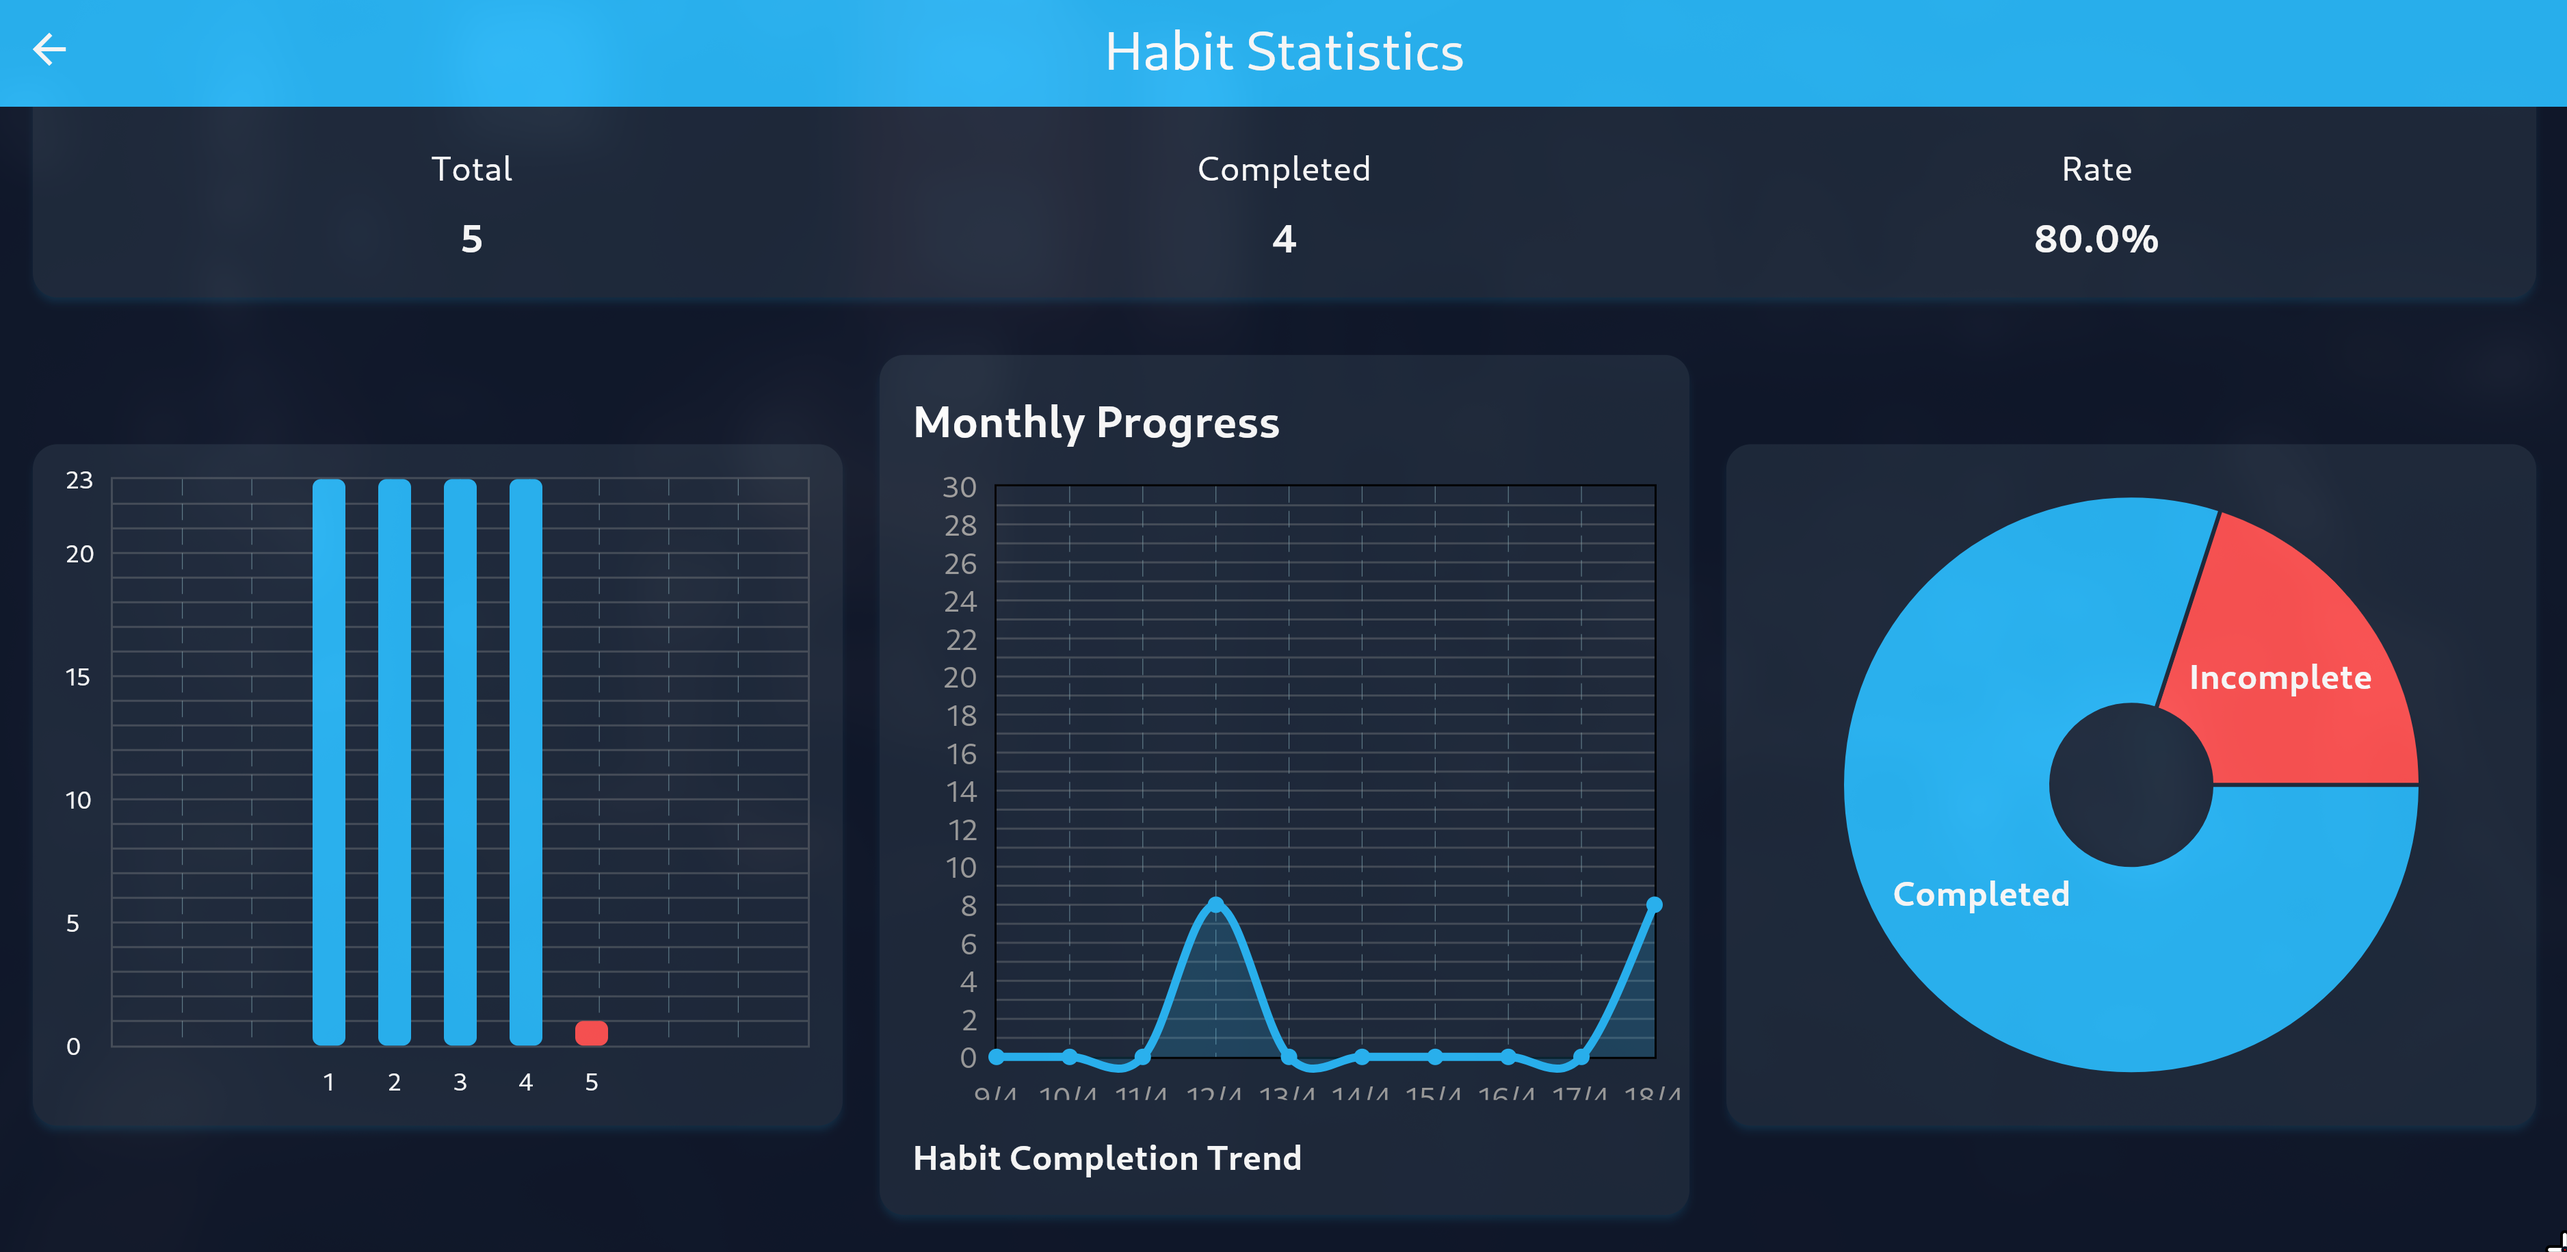
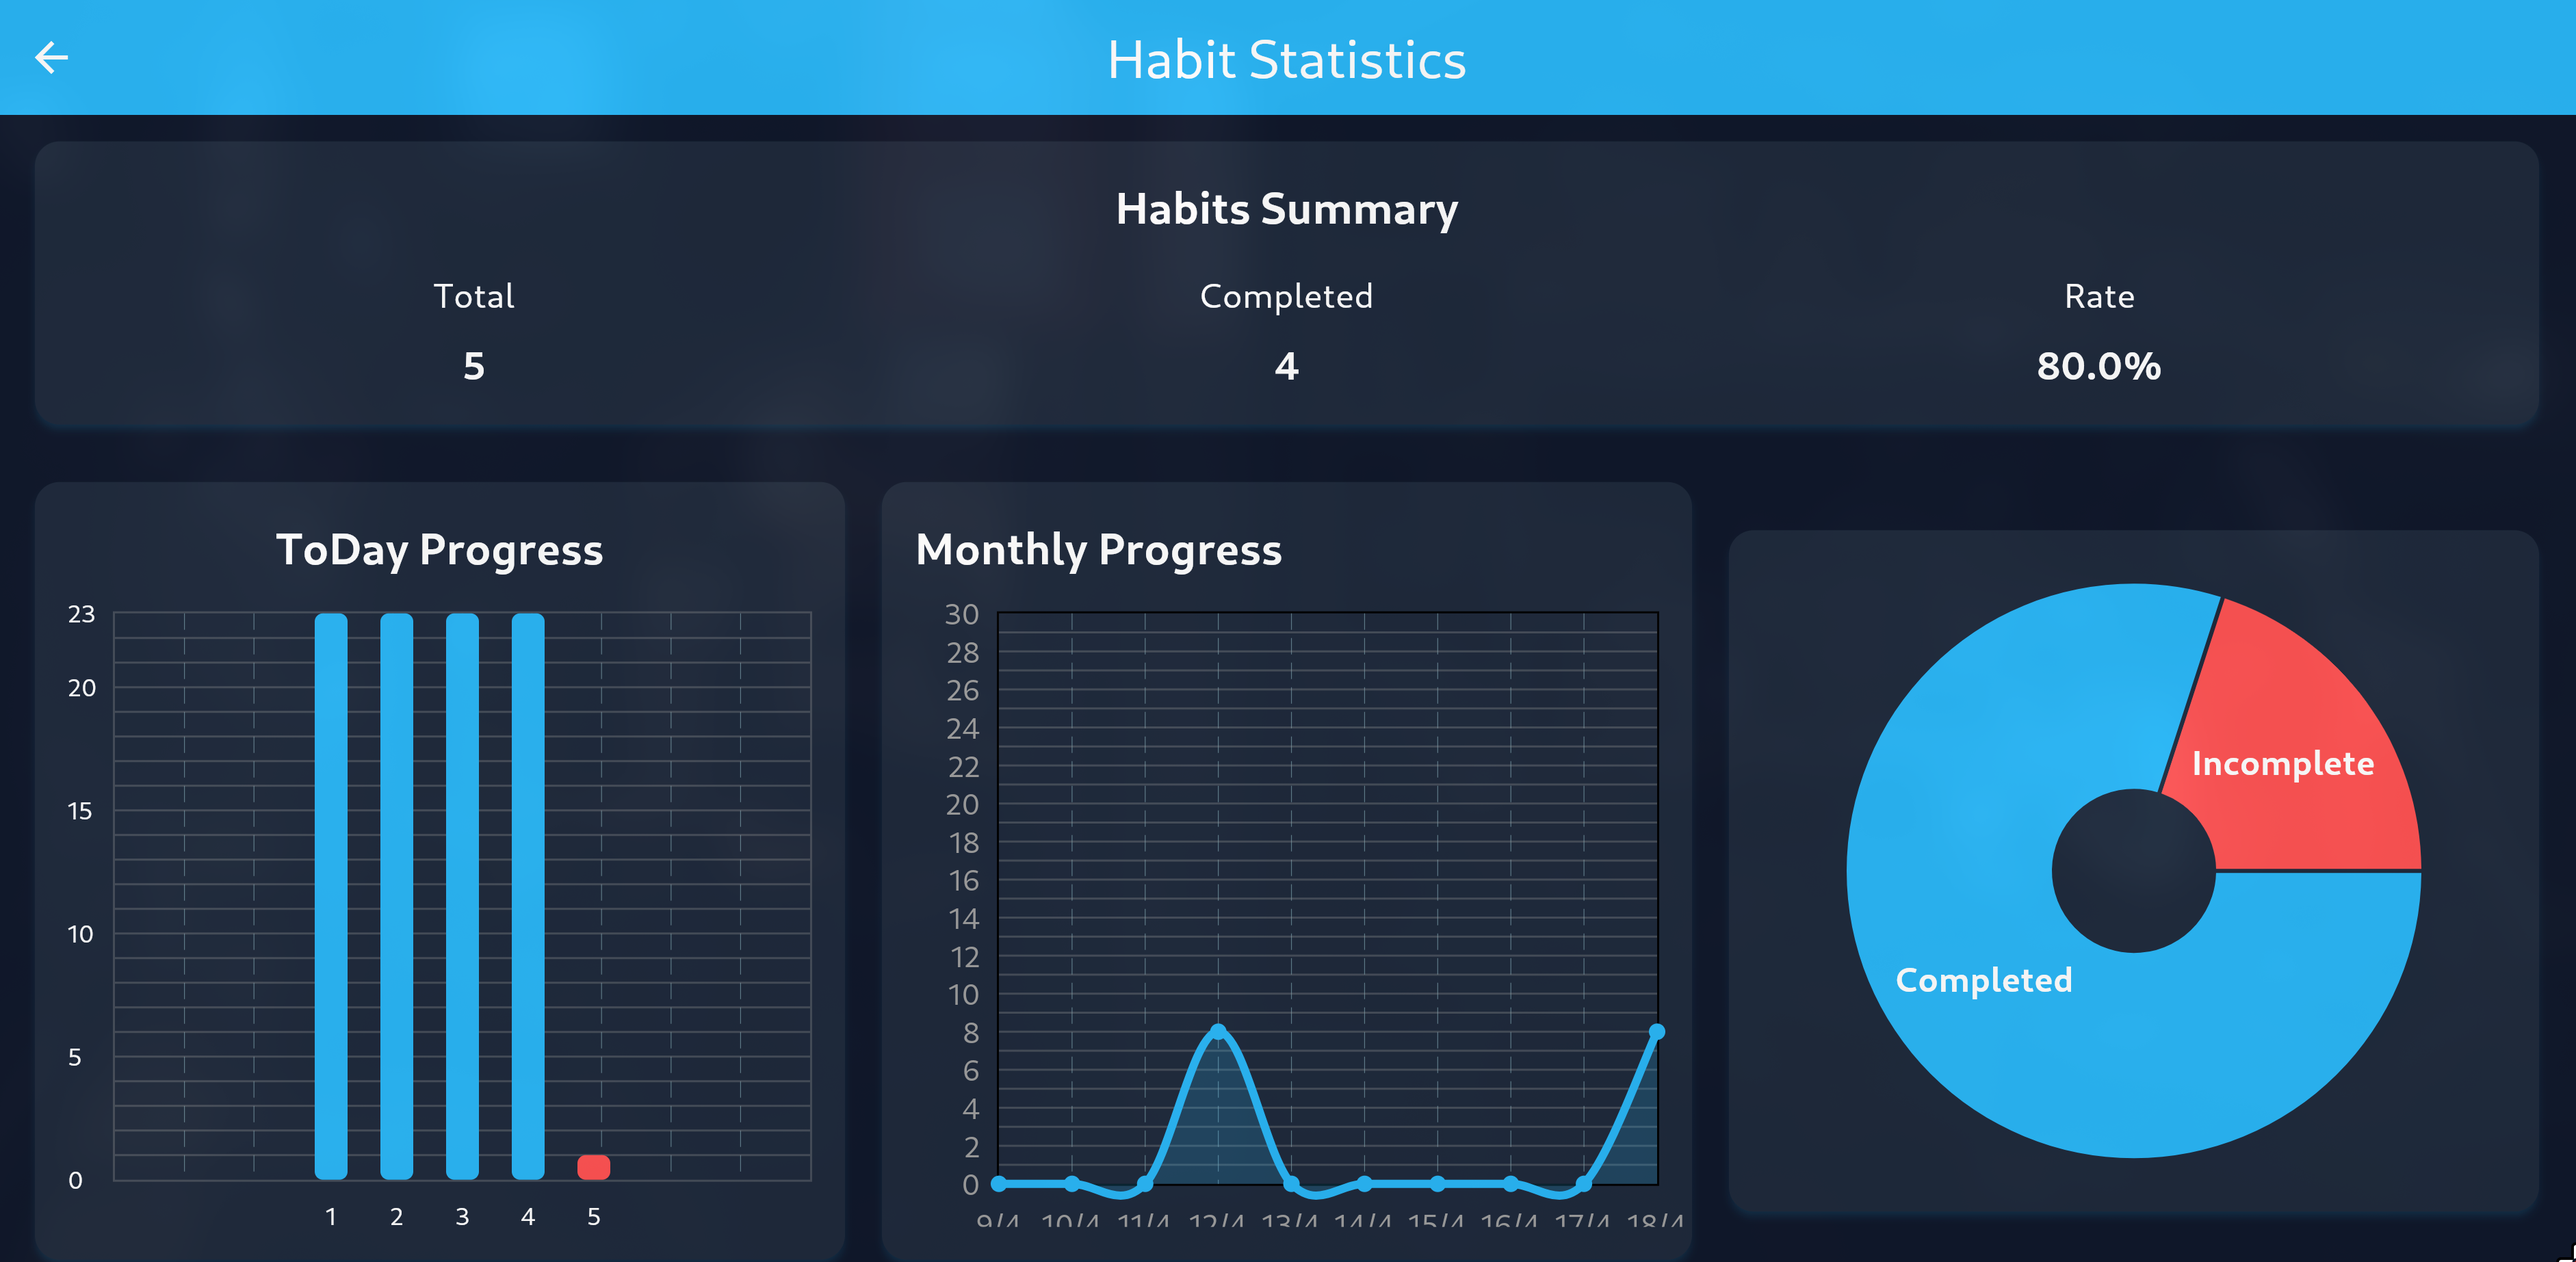
add image

diff --git a/lib/view/HabitStatsPage/widget/BuildBarChart.dart b/lib/view/HabitStatsPage/widget/BuildBarChart.dart
@@ -19,85 +19,96 @@ Widget BuildBarChart(
   return Card(
     child: Padding(
       padding: const EdgeInsets.all(16.0),
-      child: SizedBox(
-        height: 300,
-        child: BarChart(
-          BarChartData(
-            alignment: BarChartAlignment.center,
-            minY: 0,
-            maxY: cont.dayCount > 0 ? cont.dayCount.toDouble() : 5.0,
-            titlesData: FlTitlesData(
-              show: true,
-              leftTitles: AxisTitles(
-                sideTitles: SideTitles(
-                  showTitles: true,
-                  getTitlesWidget: (value, meta) {
-                    return Text(
-                      "${value.toInt()}",
-                      style: const TextStyle(fontSize: 10),
+      child: Column(
+        children: [
+          const Text(
+            'ToDay Progress',
+            style: TextStyle(fontSize: 18, fontWeight: FontWeight.bold),
+          ),
+          const SizedBox(height: 16),
+          SizedBox(
+            height: 300,
+            child: BarChart(
+              BarChartData(
+                alignment: BarChartAlignment.center,
+                minY: 0,
+                maxY: cont.dayCount > 0 ? cont.dayCount.toDouble() : 5.0,
+                titlesData: FlTitlesData(
+                  show: true,
+                  leftTitles: AxisTitles(
+                    sideTitles: SideTitles(
+                      showTitles: true,
+                      getTitlesWidget: (value, meta) {
+                        return Text(
+                          "${value.toInt()}",
+                          style: const TextStyle(fontSize: 10),
+                        );
+                      },
+                    ),
+                  ),
+                  bottomTitles: AxisTitles(
+                    sideTitles: SideTitles(
+                      showTitles: true,
+                      getTitlesWidget: (value, meta) {
+                        if (value.toInt() < chartData.length) {
+                          return Padding(
+                            padding: const EdgeInsets.only(top: 8.0),
+                            child: Text(
+                              '${value.toInt() + 1}',
+                              style: const TextStyle(fontSize: 10),
+                            ),
+                          );
+                        }
+                        return const Text('');
+                      },
+                    ),
+                  ),
+                  rightTitles: AxisTitles(
+                    sideTitles: SideTitles(showTitles: false),
+                  ),
+                  topTitles: AxisTitles(
+                    sideTitles: SideTitles(showTitles: false),
+                  ),
+                ),
+                gridData: FlGridData(
+                  horizontalInterval: 1,
+                  getDrawingHorizontalLine: (value) {
+                    return FlLine(
+                      color: Colors.grey.withOpacity(0.3),
+                      strokeWidth: 1,
                     );
                   },
                 ),
-              ),
-              bottomTitles: AxisTitles(
-                sideTitles: SideTitles(
-                  showTitles: true,
-                  getTitlesWidget: (value, meta) {
-                    if (value.toInt() < chartData.length) {
-                      return Padding(
-                        padding: const EdgeInsets.only(top: 8.0),
-                        child: Text(
-                          '${value.toInt() + 1}',
-                          style: const TextStyle(fontSize: 10),
-                        ),
-                      );
-                    }
-                    return const Text('');
-                  },
+                borderData: FlBorderData(
+                  show: true,
+                  border: Border.all(color: Colors.grey.withOpacity(0.3)),
                 ),
-              ),
-              rightTitles: AxisTitles(
-                sideTitles: SideTitles(showTitles: false),
-              ),
-              topTitles: AxisTitles(sideTitles: SideTitles(showTitles: false)),
-            ),
-            gridData: FlGridData(
-              horizontalInterval: 1,
-              getDrawingHorizontalLine: (value) {
-                return FlLine(
-                  color: Colors.grey.withOpacity(0.3),
-                  strokeWidth: 1,
-                );
-              },
-            ),
-            borderData: FlBorderData(
-              show: true,
-              border: Border.all(color: Colors.grey.withOpacity(0.3)),
-            ),
-            barGroups:
-                chartData.asMap().entries.map((entry) {
-                  final int index = entry.key;
-                  final Map<String, dynamic> habit = entry.value;
-                  final double barValue =
-                      habit['completed'] ? cont.dayCount.toDouble() : 1.0;
+                barGroups:
+                    chartData.asMap().entries.map((entry) {
+                      final int index = entry.key;
+                      final Map<String, dynamic> habit = entry.value;
+                      final double barValue =
+                          habit['completed'] ? cont.dayCount.toDouble() : 1.0;
 
-                  return BarChartGroupData(
-                    x: index,
-                    barRods: [
-                      BarChartRodData(
-                        toY: barValue,
-                        color:
-                            habit['completed']
-                                ? Theme.of(context).primaryColor
-                                : Theme.of(context).colorScheme.error,
-                        width: 16,
-                        borderRadius: BorderRadius.circular(4),
-                      ),
-                    ],
-                  );
-                }).toList(),
+                      return BarChartGroupData(
+                        x: index,
+                        barRods: [
+                          BarChartRodData(
+                            toY: barValue,
+                            color:
+                                habit['completed']
+                                    ? Theme.of(context).primaryColor
+                                    : Theme.of(context).colorScheme.error,
+                            width: 16,
+                            borderRadius: BorderRadius.circular(4),
+                          ),
+                        ],
+                      );
+                    }).toList(),
+              ),
+            ),
           ),
-        ),
+        ],
       ),
     ),
   );

diff --git a/lib/view/HabitStatsPage/widget/BuildTreandChart.dart b/lib/view/HabitStatsPage/widget/BuildTreandChart.dart
@@ -138,11 +138,11 @@ Widget BuildTrendChart(
               ),
             ),
           ),
-          const SizedBox(height: 16),
-          const Text(
-            'Habit Completion Trend',
-            style: TextStyle(fontSize: 14, fontWeight: FontWeight.bold),
-          ),
+          // const SizedBox(height: 16),
+          // const Text(
+          //   'Habit Completion Trend',
+          //   style: TextStyle(fontSize: 14, fontWeight: FontWeight.bold),
+          // ),
         ],
       ),
     ),
